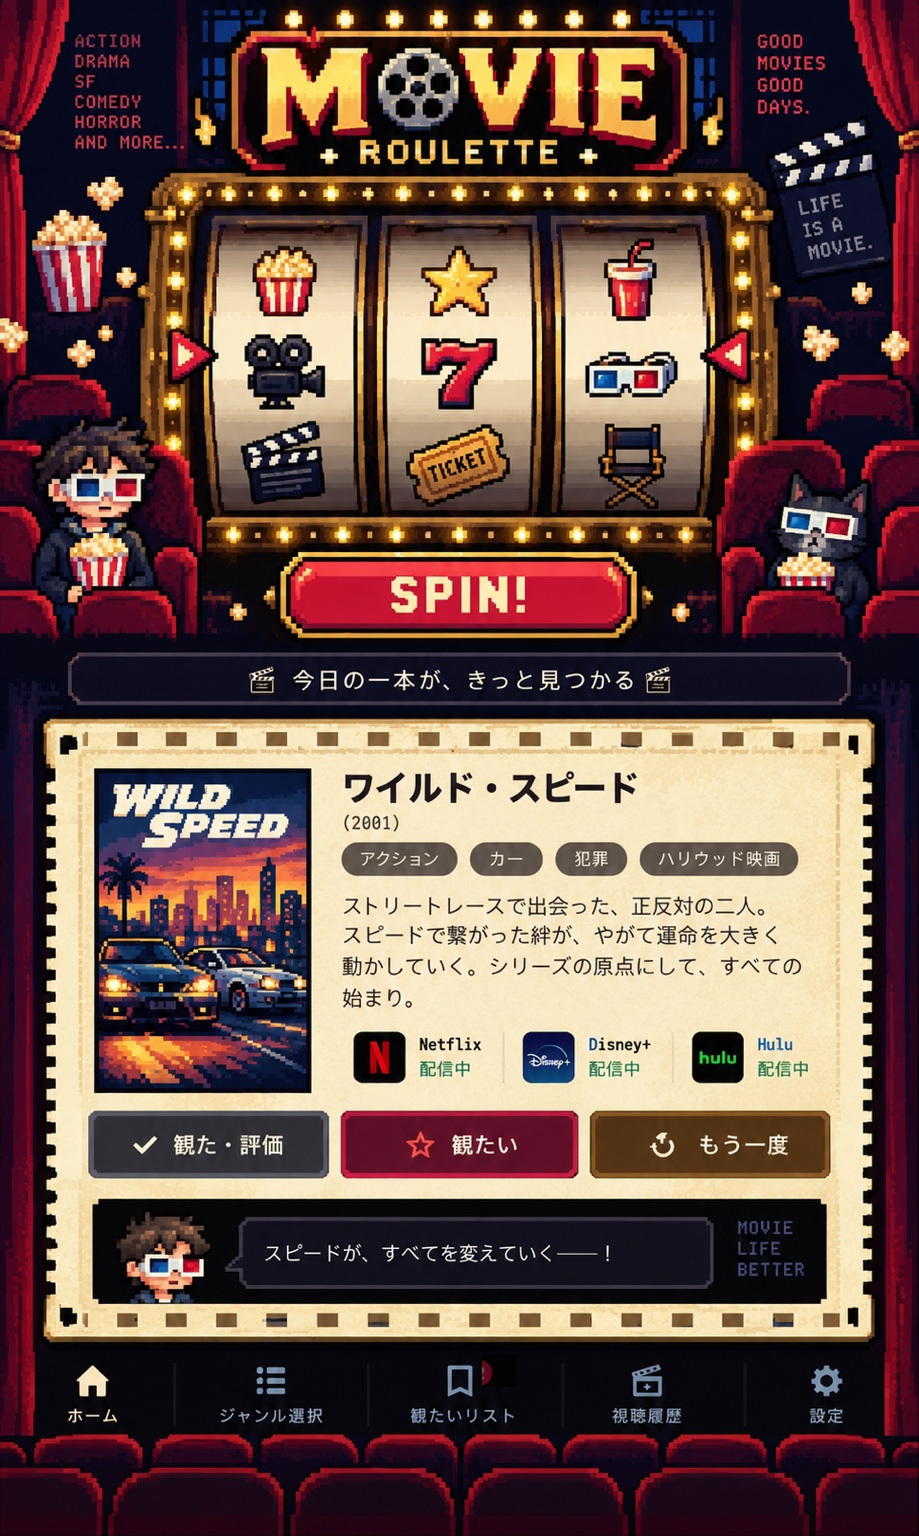
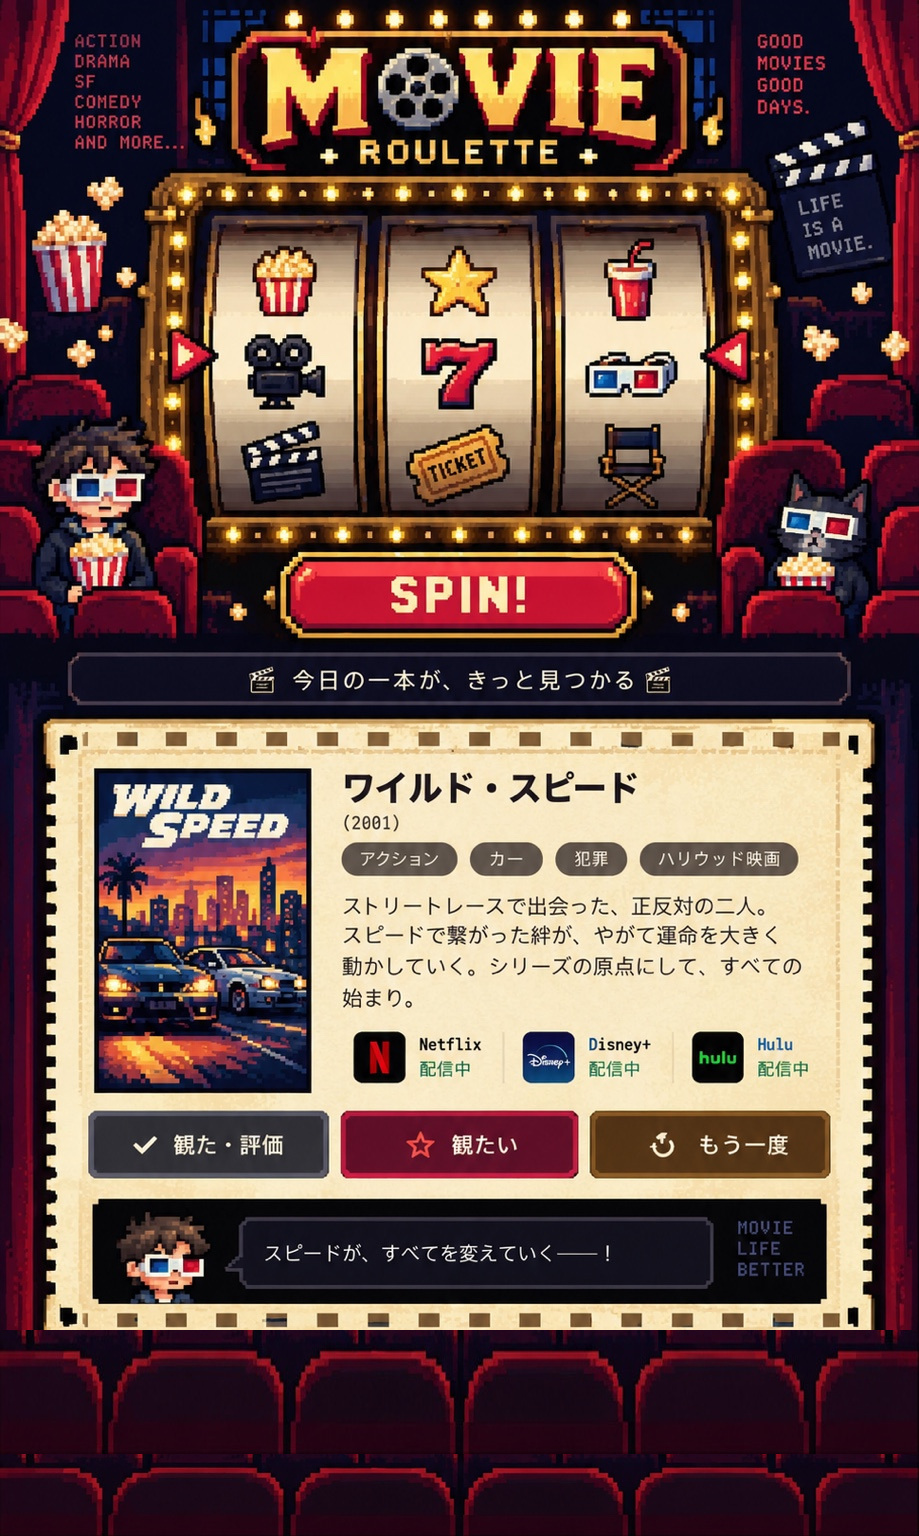
Add files via upload

Changed region(s): [[0.0, 0.8438, 1.0, 0.9688]]

diff --git a/style.css b/style.css
@@ -639,3 +639,9 @@ img,canvas,video,svg{
 *{
   min-width:0;
 }
+
+/* v6.13 — duplicate baked-in nav removed from JPEG.
+   Keep only the real fixed HTML navigation. */
+.image-bottom-nav{
+  display:grid!important;
+}
